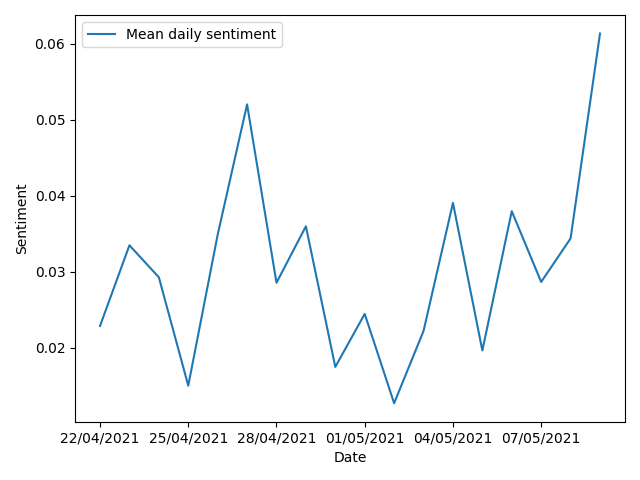
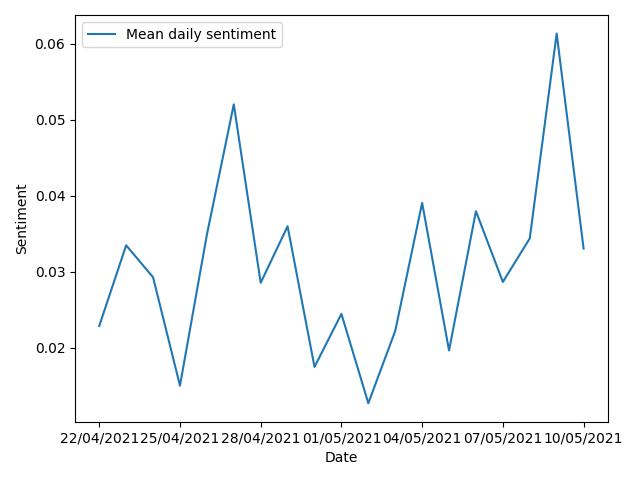
Automatic update (gitControl.py)

diff --git a/README.md b/README.md
@@ -3,7 +3,7 @@
 World news sentiment data, updated at 07:00 daily.
 
 **Started:** `22/04/2021`<br>
-**Updated:** `09/05/2021, 07:00:35`<br>
+**Updated:** `10/05/2021, 07:00:35`<br>
 **Sources:** `BBC News, Sky, Reuters, r/worldnews, r/news`
 
 <img src="https://user-images.githubusercontent.com/25552804/115932698-55adef00-a485-11eb-82bb-2265c0821ca0.png" width="20%" height="20%">

diff --git a/docs/index.md b/docs/index.md
@@ -3,7 +3,7 @@
 World news sentiment data, updated at 07:00 daily.
 
 **Started:** `22/04/2021`<br>
-**Updated:** `09/05/2021, 07:00:35`<br>
+**Updated:** `10/05/2021, 07:00:35`<br>
 **Sources:** `BBC News, Sky, Reuters, r/worldnews, r/news`
 
 <img src="https://user-images.githubusercontent.com/25552804/115932698-55adef00-a485-11eb-82bb-2265c0821ca0.png" width="20%" height="20%">
